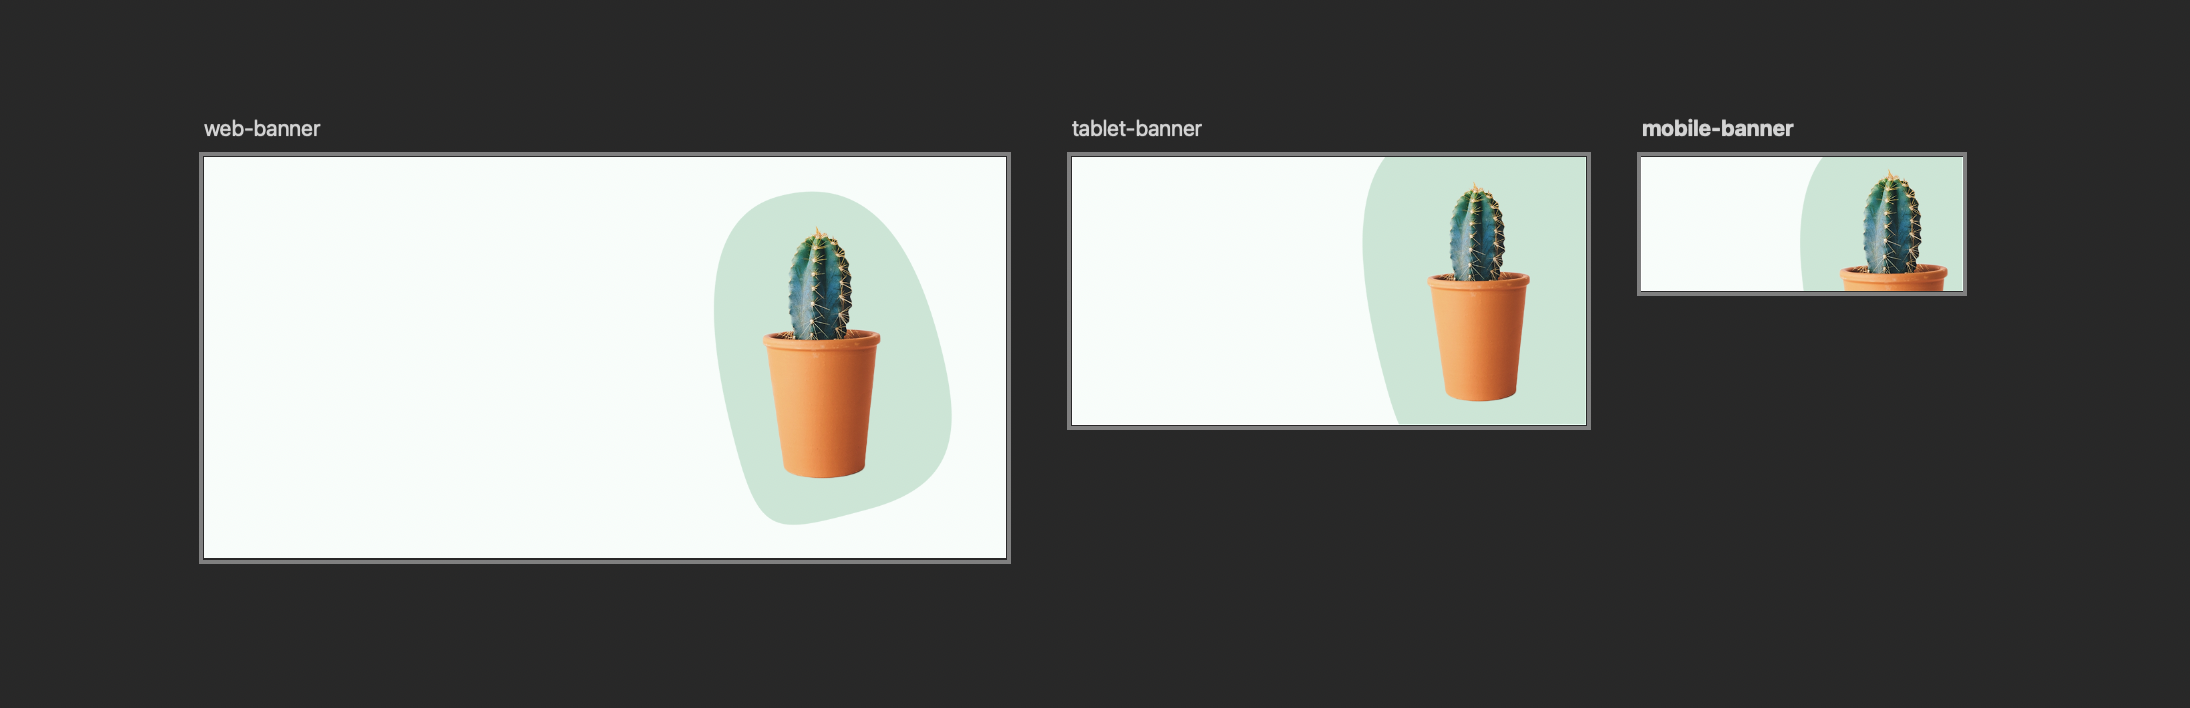
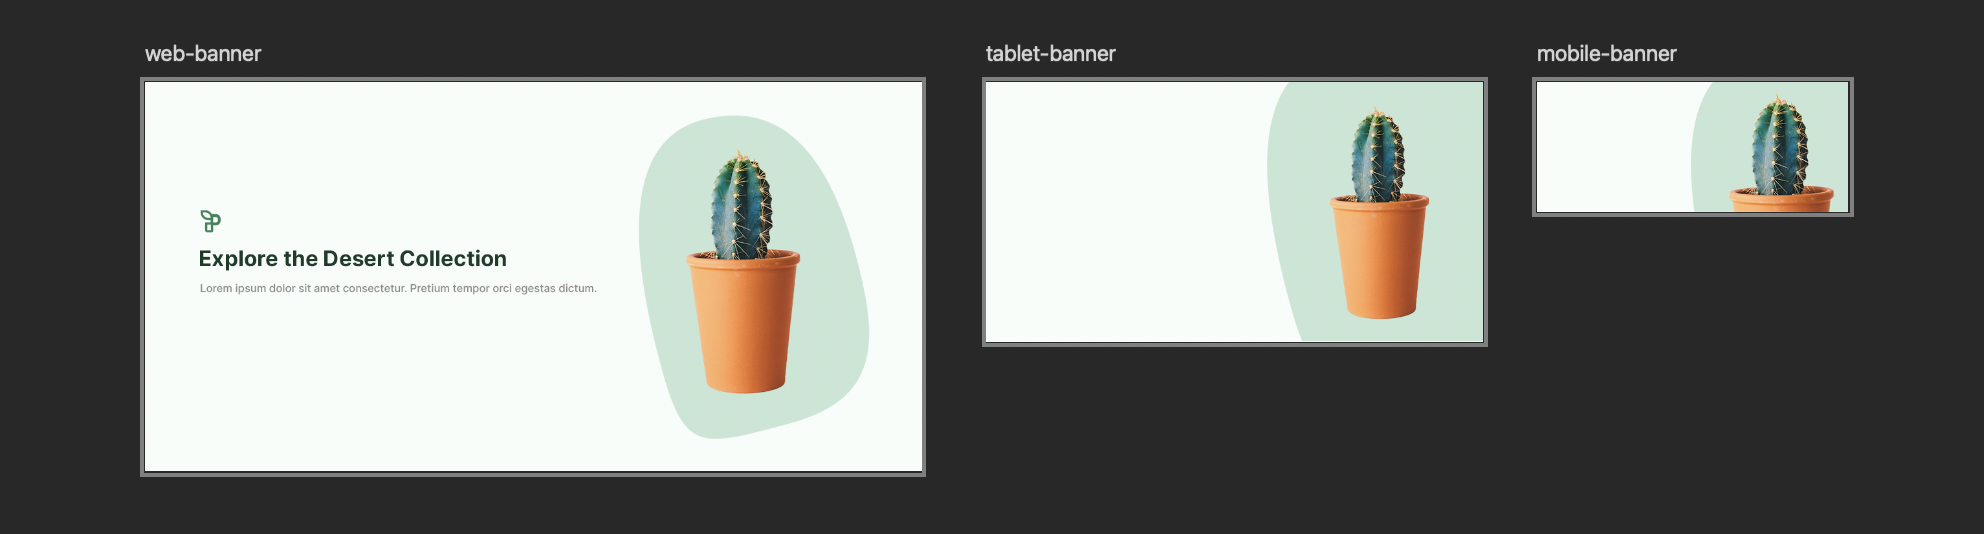
course update

Changed region(s): [[0.0625, 0.0899, 0.9375, 0.8989]]

diff --git a/docs/deliverables/assignments/midterm.md b/docs/deliverables/assignments/midterm.md
@@ -32,22 +32,24 @@ You will utilize Adobe Photoshop for image optimization and manipulation, and Ad
 4. [Animated Loader](#animated-loader)
 5. [Logo Design](#logo-design)
 
-## Instructions
-
 ### Web Banners
 
-For the Web Banner portion of your midterm, you will be creating a series of banners that scale to three different sizes. The challenge is to design your banners in such a way that the main subject remains visible and impactful across all sizes, despite the varying aspect ratios.
+For the Web Banner portion of your midterm, you will be creating a series of banners that scale to three different sizes. The challenge is to design your banners in such a way that the main subject and accompanying text remain visible and impactful across all sizes, despite the varying aspect ratios.
 
-Here is an example, you can probably do better! :D
+Here is an example, you can probably do better! :D  
 ![Web Banner Example](./assets/web-banner-example.png)
 
 **Instructions**
 
 1. Using the file provided, select an image that aligns with your chosen app theme (e.g., if your theme is gardening, select an image related to gardening).
 2. Ensure your chosen image has a clear main subject that can remain the focal point across different banner sizes.
-3. Place your image within the provided artboards. Scale and adjust your image to fit nicely within the frames. Use content-aware fill or any other tool we learned in class to fill in gaps within your artboard.
-4. Ensure that your edits are non-destructive, allowing for adjustments and changes without permanently altering the original image.
-5. Export your banners as .PNGs at their respective sizes.
+3. Add a short and impactful message or slogan **only** to your web banner. Make sure the text is legible and maintains proper hierarchy, even when scaled down to smaller sizes.
+4. Think about where a **call-to-action (CTA) button** may be added in the future. Consider the necessary spacing to allow for the button placement without obstructing the main subject or text.
+5. Place your image and text within the provided artboards. Scale and adjust your elements to fit nicely within the frames.
+6. Utilize the tools we covered during the Photoshop portion of the course, such as **Masking** and **Layer Adjustments**, to make non-destructive edits that maintain flexibility for future changes.
+7. Export your banners as .PNGs at their respective sizes.
+
+> Although we did not explore the Text tool in Photoshop, it functions similar to Illustrators Text tool.
 
 **File organization:**
 
@@ -69,14 +71,14 @@ In this part, you will design a set of UI buttons, each with an active and hover
 
 ![UI Button Set Example](./assets/button-example.png)
 
-**Instructions:**
+### Instructions:
 
 1. Design two sets of buttons (e.g., "Read More" and "Subscribe") each with an alternate state (active & hover).
-2. Use consistent design elements (colors, fonts, shapes, gradients and effects ) that match your app's theme.
-3. Ensure the buttons are visually distinct in both states, using design cues to communicate their functionality.
-4. Consider the size of your buttons.
-5. Integrate your buttons into the desktop version of your web banner. Place them strategically so they complement the banner's design and encourage user interaction. Feel free to add text to your banner to help complete the look of your banner.
-6. Export your compiled web banner and buttons as .PNG
+2. Use consistent design elements (colors, fonts, shapes, **gradients**, and effects) that match your app's theme. Incorporate gradients to help create a sense of depth and make your buttons stand out more effectively.
+3. Ensure the buttons are visually distinct in both states, using design cues like color shifts, shadows, or subtle animations to communicate their functionality.
+4. Consider the size of your buttons to ensure they are large enough to be easily clickable but not overpowering in the overall design.
+5. Integrate your buttons into the desktop version of your web banner. Place them strategically so they complement the banner's design and encourage user interaction, while ensuring the text and images are still clear and impactful.
+6. Export your compiled web banner and buttons as .PNG files.
 
 **Resources:**
 
@@ -111,15 +113,15 @@ Create a set of 5 custom icons that will be used throughout your app. These shou
 
 ![UI Icon Set Example](./assets/ui-icon-example.png)
 
-**Instructions:**
+### Instructions:
 
-1. Start by created your icons within the 24x24px artboard. Each artboard is labeled with the icon you are to create.
-2. Once you have created your 24x24px icons, scale them to 48x48 px. ensure that your font weights and corner radii scale accordingly.
+1. Start by creating your icons within the **24x24px artboard**. Each artboard is labeled with the icon you are to create. Ensure you utilize the **keylines and grid** to maintain proper alignment and consistency in the proportions of your icons.
+2. Once you have created your 24x24px icons, scale them to **48x48px**. Make sure your font weights, corner radii, and other elements scale proportionally. Using the **keylines and grid** will help ensure your icons scale accurately and remain visually consistent.
 3. Finishing steps:
-   - Organize your layers by grouping and labeling.
-   - Make sure you save your .ai file.
-   - Be sure to hide the **keyline** layers before exporting
-   - Export your artboards using `export for Screens` dialogue.
+   - Organize your layers by grouping and labeling them properly for easier management.
+   - Make sure to save your `.ai` file regularly.
+   - Hide the **keyline** layers before exporting your icons.
+   - Export your artboards using the `Export for Screens` dialogue as SVGs for optimal quality.
 
 **File organization:**
 
@@ -207,8 +209,9 @@ submission-2/
 
 <br>
 
-<Badge text="Section 010: October 15th @9:00pm & October 20th @11:59pm" />
-<Badge type="error" text="Section 020: October 15th @7:00pm & October 20th @11:59pm" />
+<Badge text="Section 010: October 15th @9:00pm" />
+<br/>
+<Badge type="error" text="Section 020: October 15th @7:00pm" />
 
 - By the end of today's theory class, you will make your fist submission on Brightspace.
 - Compress `submission-1` folder and upload it to Brightspace
@@ -217,8 +220,9 @@ submission-2/
 
 <br>
 
-<Badge text="Section 010: October 15th @9:00pm & October 20th @11:59pm" />
-<Badge type="error" text="Section 020: October 15th @7:00pm & October 20th @11:59pm" />
+<Badge text="Section 010: October 20th @11:59pm" />
+<br/>
+<Badge type="error" text="Section 020: October 20th @11:59pm" />
 
 - Submit the remaining assets ( UI icon set, animated loader, logo design) through Brightspace.
 - Compress `submission-2` folder and upload it to Brightspace

diff --git a/docs/modules/week7/README.md b/docs/modules/week7/README.md
@@ -8,7 +8,9 @@ This week is all about the midterm. Make sure you follow the instructions outlin
 
 <br>
 
-<Badge type="error" text="Due: Tuesday, February 20th @9:00 pm" />
+<Badge text="Section 010: October 15th @9:00pm" />
+<br/>
+<Badge type="error" text="Section 020: October 15th @7:00pm" />
 
 1. [Web Banners](../../deliverables/assignments/midterm.md#web-banners)
 2. [UI Button Set](../../deliverables/assignments/midterm.md#ui-button-set)
@@ -17,7 +19,9 @@ This week is all about the midterm. Make sure you follow the instructions outlin
 
 <br>
 
-<Badge type="error" text="Due: Sunday, February 25th @11:59 pm" />
+<Badge text="Section 010: October 20th @11:59pm" />
+<br/>
+<Badge type="error" text="Section 020: October 20th @11:59pm" />
 
 3. [UI Icon Set](../../deliverables/assignments/midterm.md#ui-icon-set)
 4. [Animated Loader](../../deliverables/assignments/midterm.md#animated-loader)

diff --git a/docs/modules/week8/README.md b/docs/modules/week8/README.md
@@ -32,6 +32,6 @@ Follow the steps to upgrade your Starter account to an education account.
 
 Figma is different from other graphics editing tools. Mainly because it works **directly on your browser**. This means you get to access your projects and start designing from any computer or platform without having to buy multiple licenses or install software.
 
-However they now offer a desktop version! Consider Downloading the Desktop app [here](https://www.figma.com/downloads/).
+Consider Downloading the Desktop app [here](https://www.figma.com/downloads/).
 
 </Countdown>
